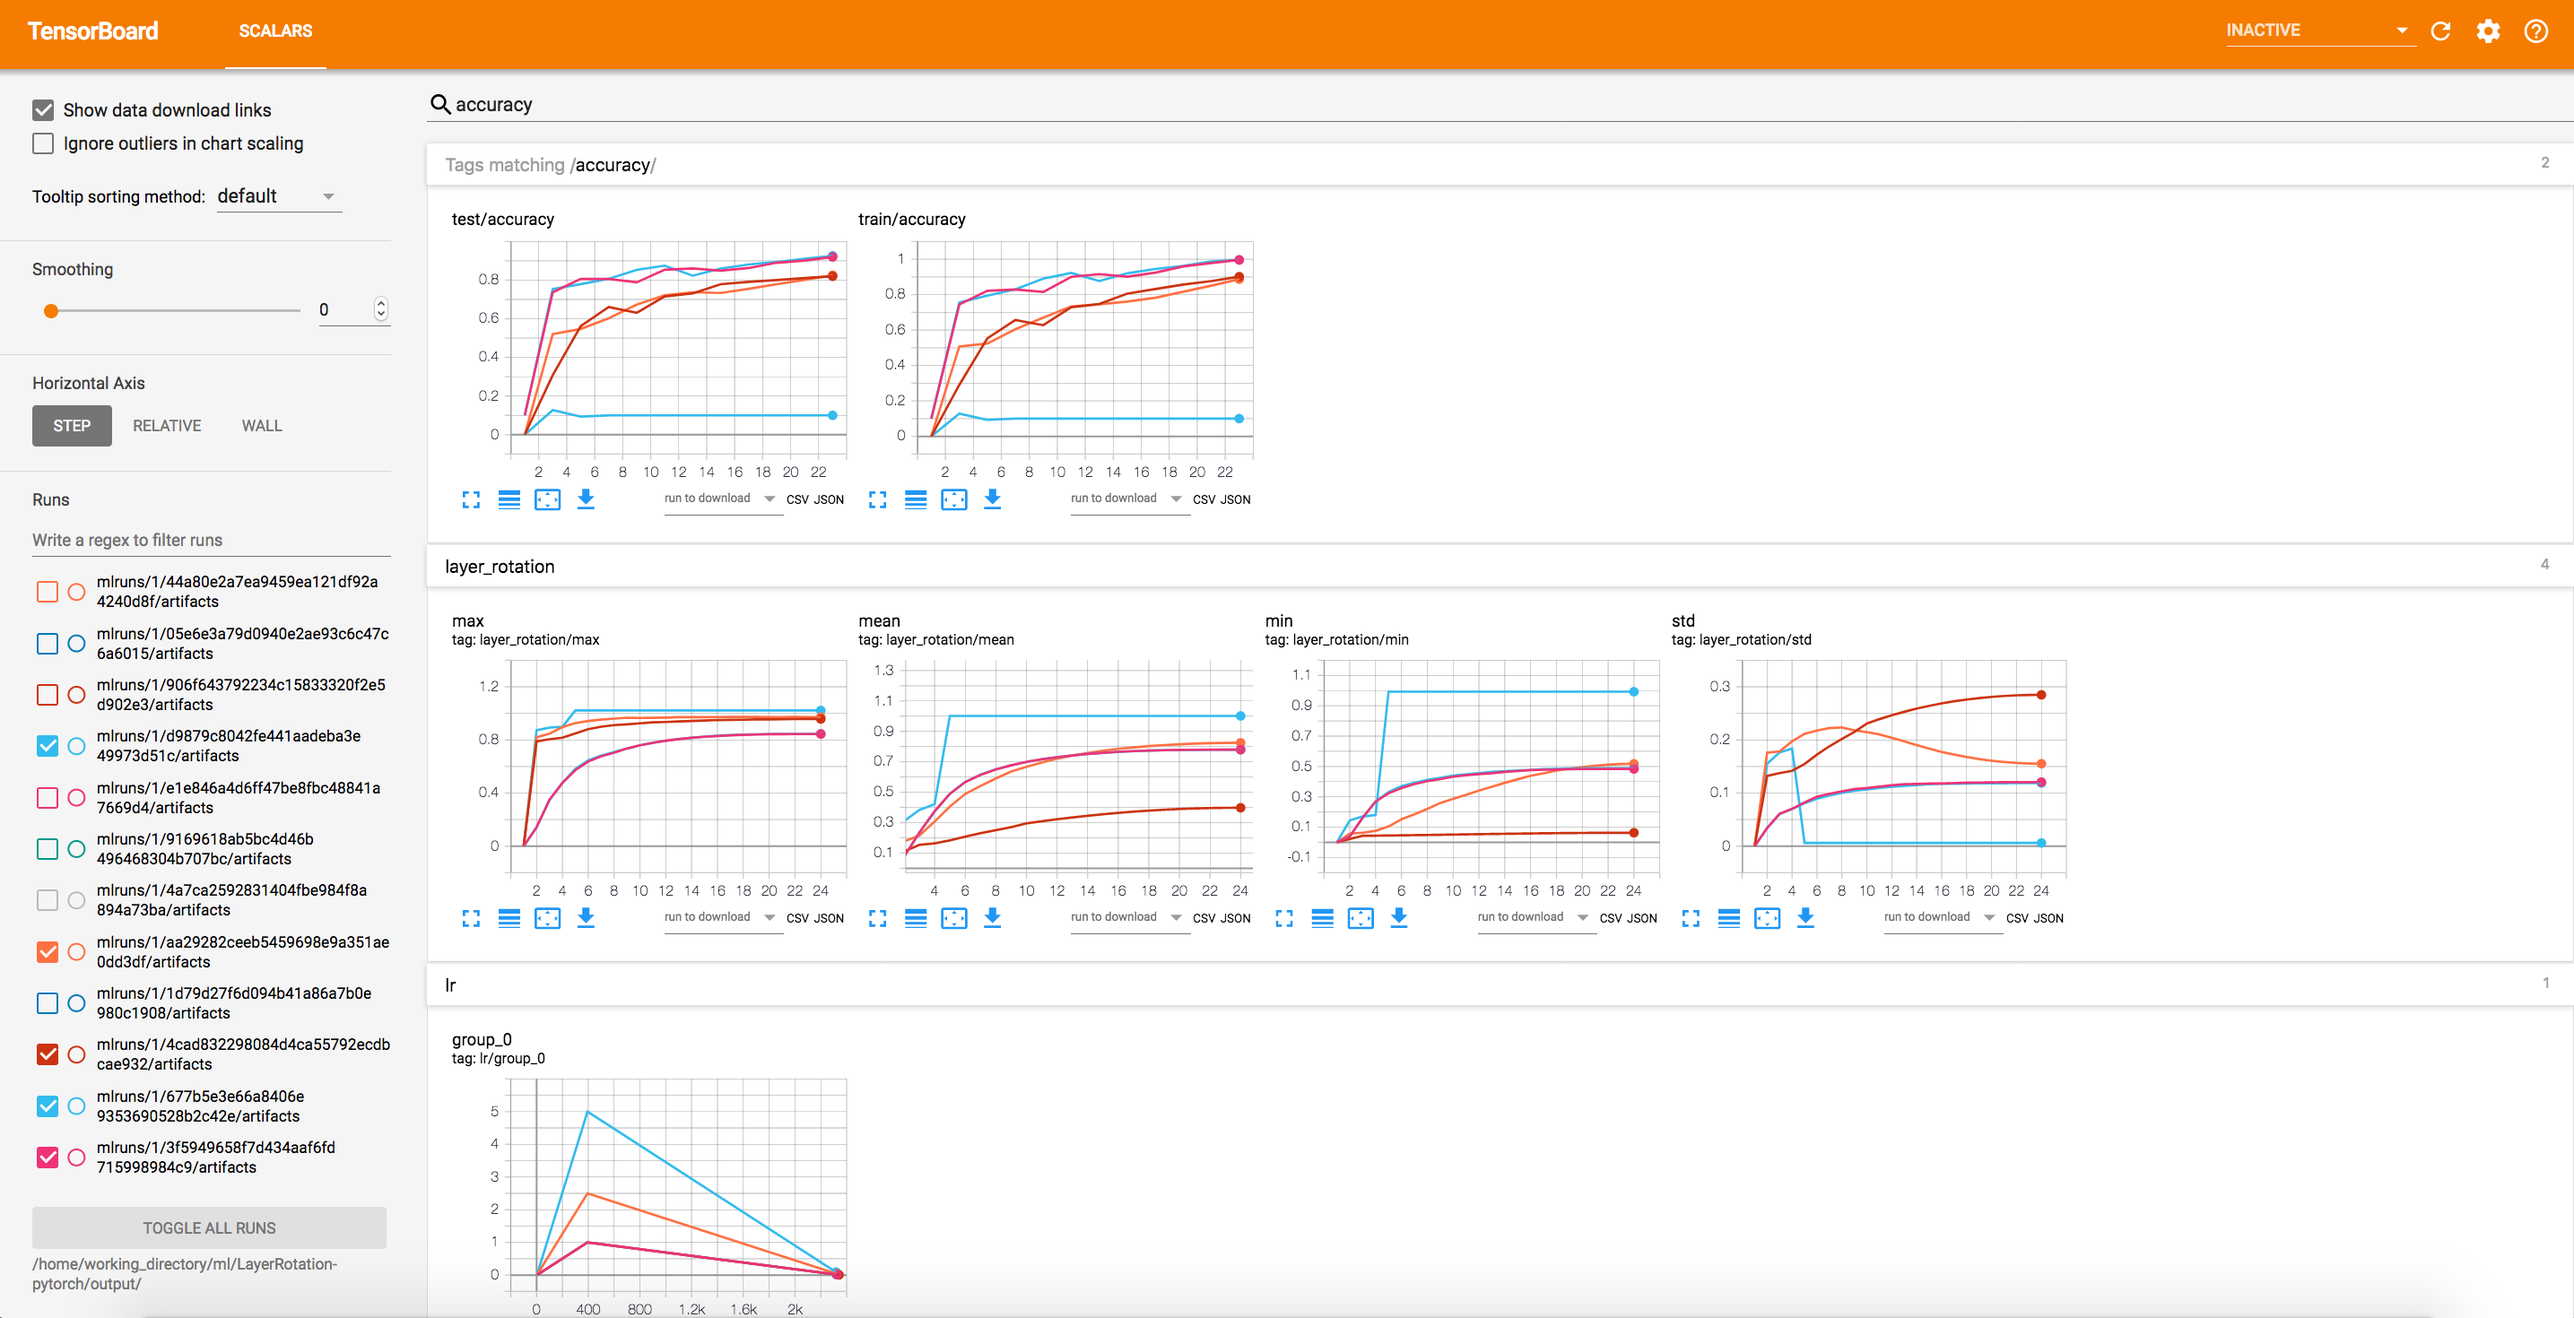
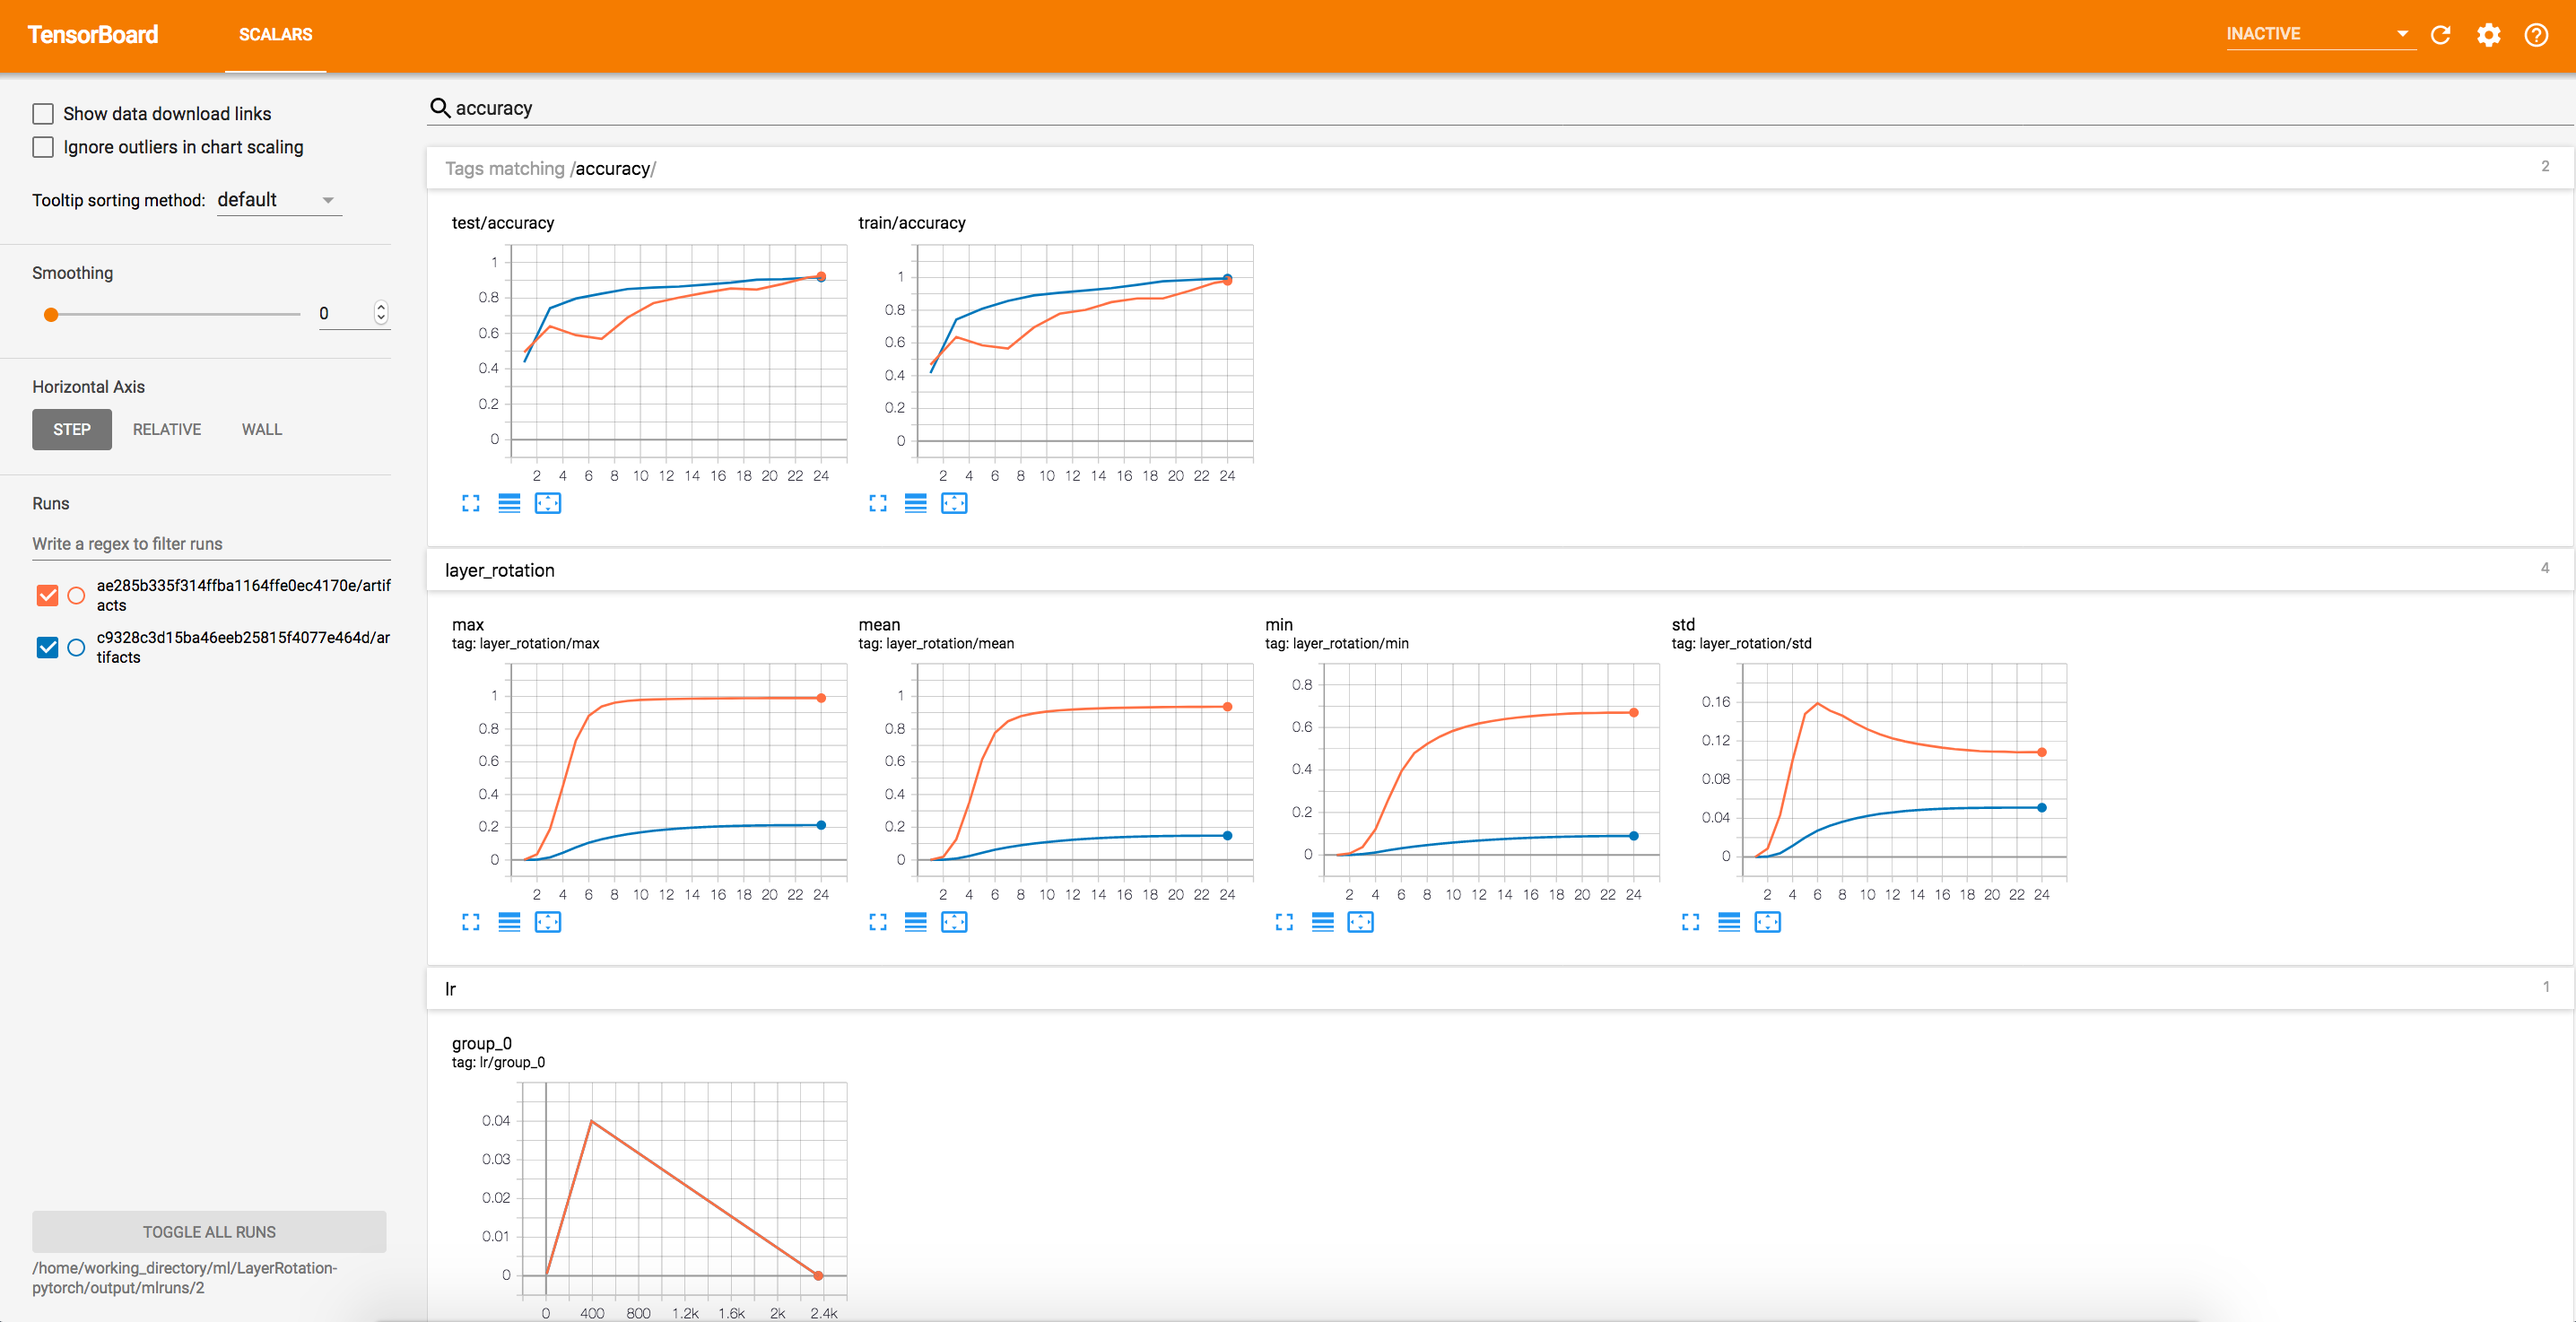
Fix bug in Layca, updated main.py etc

diff --git a/code/main.py b/code/main.py
@@ -8,7 +8,6 @@
 import argparse
 import traceback
 from pathlib import Path
-import tempfile
 
 import torch
 import torch.nn as nn
@@ -80,7 +79,7 @@ def run(output_path, config):
 
     trainer = Engine(process_function)
 
-    trainer.add_event_handler(Events.ITERATION_COMPLETED, scheduler)
+    trainer.add_event_handler(Events.ITERATION_STARTED, scheduler)
 
     RunningAverage(output_transform=lambda x: x, epoch_bound=False).attach(trainer, 'batchloss')
 
@@ -90,7 +89,7 @@ def run(output_path, config):
 
     tb_logger = TensorboardLogger(log_dir=output_path)
     tb_logger.attach(trainer,
-                     log_handler=tbOutputHandler(tag="train", metric_names=['batchloss', ]),
+                     log_handler=tbOutputHandler(tag="train", metric_names='all'),
                      event_name=Events.ITERATION_COMPLETED)
     tb_logger.attach(trainer,
                      log_handler=tbOptimizerParamsHandler(optimizer, param_name="lr"),
@@ -112,18 +111,18 @@ def run(output_path, config):
             train_evaluator.run(train_loader)
             evaluator.run(test_loader)
 
-    trainer.add_event_handler(Events.EPOCH_STARTED, run_validation, val_interval=2)
+    trainer.add_event_handler(Events.EPOCH_COMPLETED, run_validation, val_interval=2)
     trainer.add_event_handler(Events.COMPLETED, run_validation, val_interval=1)
 
     tb_logger.attach(train_evaluator,
                      log_handler=tbOutputHandler(tag="train",
-                                                 metric_names=list(metrics.keys()),
+                                                 metric_names='all',
                                                  another_engine=trainer),
                      event_name=Events.COMPLETED)
 
     tb_logger.attach(evaluator,
                      log_handler=tbOutputHandler(tag="test",
-                                                 metric_names=list(metrics.keys()),
+                                                 metric_names='all',
                                                  another_engine=trainer),
                      event_name=Events.COMPLETED)
 
@@ -143,6 +142,7 @@ def run(output_path, config):
     evaluator.add_event_handler(Events.COMPLETED, mlflow_val_metrics_logging, "test")
 
     trainer.run(train_loader, max_epochs=config['num_epochs'])
+    tb_logger.close()
 
 
 if __name__ == "__main__":
@@ -210,14 +210,13 @@ if __name__ == "__main__":
     # dump all python files to reproduce the run
     mlflow.log_artifacts(Path(__file__).parent.as_posix())
 
-    with tempfile.TemporaryDirectory() as tmpdirname:                        
-        try:
-            run(tmpdirname, config)
-        except Exception as e:
-            traceback.print_exc()
-            mlflow.log_artifacts(tmpdirname)
-            mlflow.log_param("run status", "FAILED")
-            exit(1)
+    # Assume artifact uri is a filesystem
+    output_path = mlflow.get_artifact_uri()
+    try:
+        run(output_path, config)
+    except Exception as e:
+        traceback.print_exc()
+        mlflow.log_param("run status", "FAILED")
+        exit(1)
 
-        mlflow.log_artifacts(tmpdirname)
-        mlflow.log_param("run status", "OK")
+    mlflow.log_param("run status", "OK")

diff --git a/code/cifar/dataloaders.py b/code/cifar/dataloaders.py
@@ -14,12 +14,12 @@ def get_train_test_loaders(dataset_name, path, batch_size, num_workers):
         RandomCrop(32),
         RandomHorizontalFlip(),
         ToTensor(),
-        Normalize((0.5, 0.5, 0.5), (0.5, 0.5, 0.5)),
+        Normalize((0.5, 0.5, 0.5), (0.25, 0.25, 0.25)),
     ])
 
     test_transform = Compose([
         ToTensor(),
-        Normalize((0.5, 0.5, 0.5), (0.5, 0.5, 0.5)),
+        Normalize((0.5, 0.5, 0.5), (0.25, 0.25, 0.25)),
     ])
 
     train_ds = fn(root=path, train=True, transform=train_transform, download=True)

diff --git a/code/handlers/layer_rotation.py b/code/handlers/layer_rotation.py
@@ -42,7 +42,7 @@ class LayerRotationStatsHandler:
     def __call__(self, engine, logger, event_name):
 
         if not isinstance(logger, TensorboardLogger):
-            raise RuntimeError("Handler 'WeightsScalarHandler' works only with TensorboardLogger")
+            raise RuntimeError("Handler 'LayerRotationStatsHandler' works only with TensorboardLogger")
 
         global_step = engine.state.get_event_attrib_value(event_name)
         

diff --git a/code/layca_optims/sgd.py b/code/layca_optims/sgd.py
@@ -48,7 +48,7 @@ class _BaseLaycaSGD(SGD):
         return loss
 
 
-class MinimalLaycaSGD(SGD):
+class MinimalLaycaSGD(_BaseLaycaSGD):
     """
     Only step 2 and 3 from Algorithm 2 (page 17)
     """
@@ -61,7 +61,7 @@ class MinimalLaycaSGD(SGD):
         # 3 - update
         p.data.add_(-lr, d_p)
     
-class LaycaSGD(SGD):
+class LaycaSGD(_BaseLaycaSGD):
     """
     All operations from Algorithm 2 (page 17)
     """

diff --git a/README.md b/README.md
@@ -8,13 +8,12 @@ Based on ["Layer rotation: a surprisingly powerful indicator of generalization i
 - LAYCA optimizers: 
   - [SGD](code/layca_optims/sgd.py)
 
-**In my experiments, I didn't see any improvements of using LAYCA SGD optimizer. Use this code with caution!**
 
 ## Requirements
 
-All experiments are run using [`pytorch-ignite`](https://github.com/pytorch/ignite.git) and [`mlflow`](https://github.com/mlflow/mlflow), please install the latest versions of these libraries
+All experiments are run [`mlflow`](https://github.com/mlflow/mlflow), please install the latest versions of the library
 ```
-pip install --upgrade https://github.com/pytorch/ignite.git mlflow
+pip install --upgrade mlflow
 ```
 
 ## Experiments
